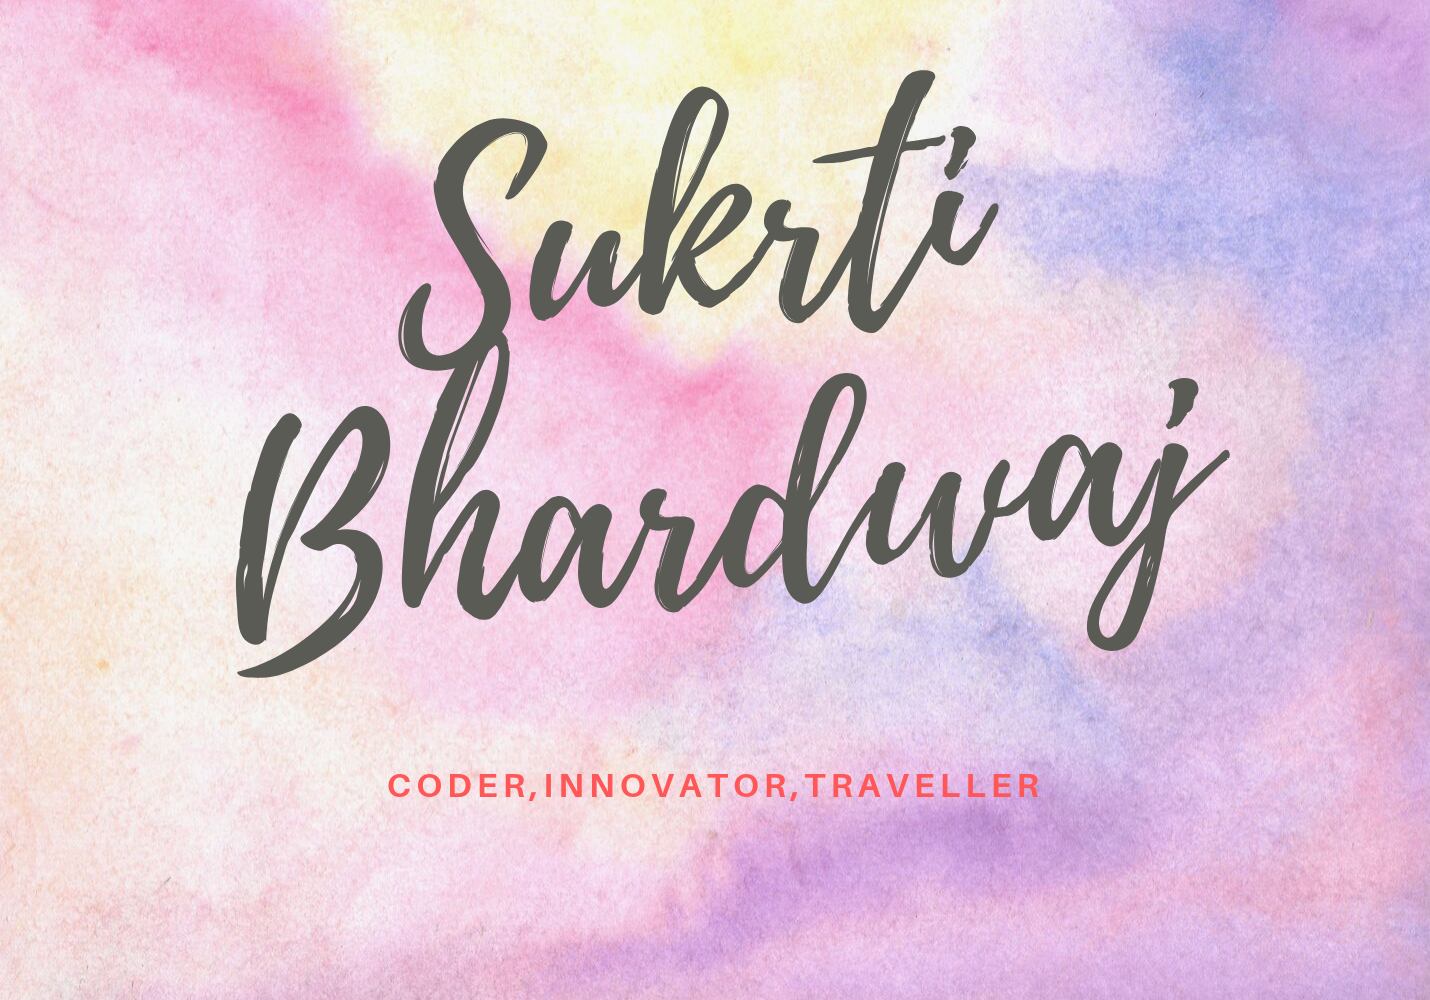
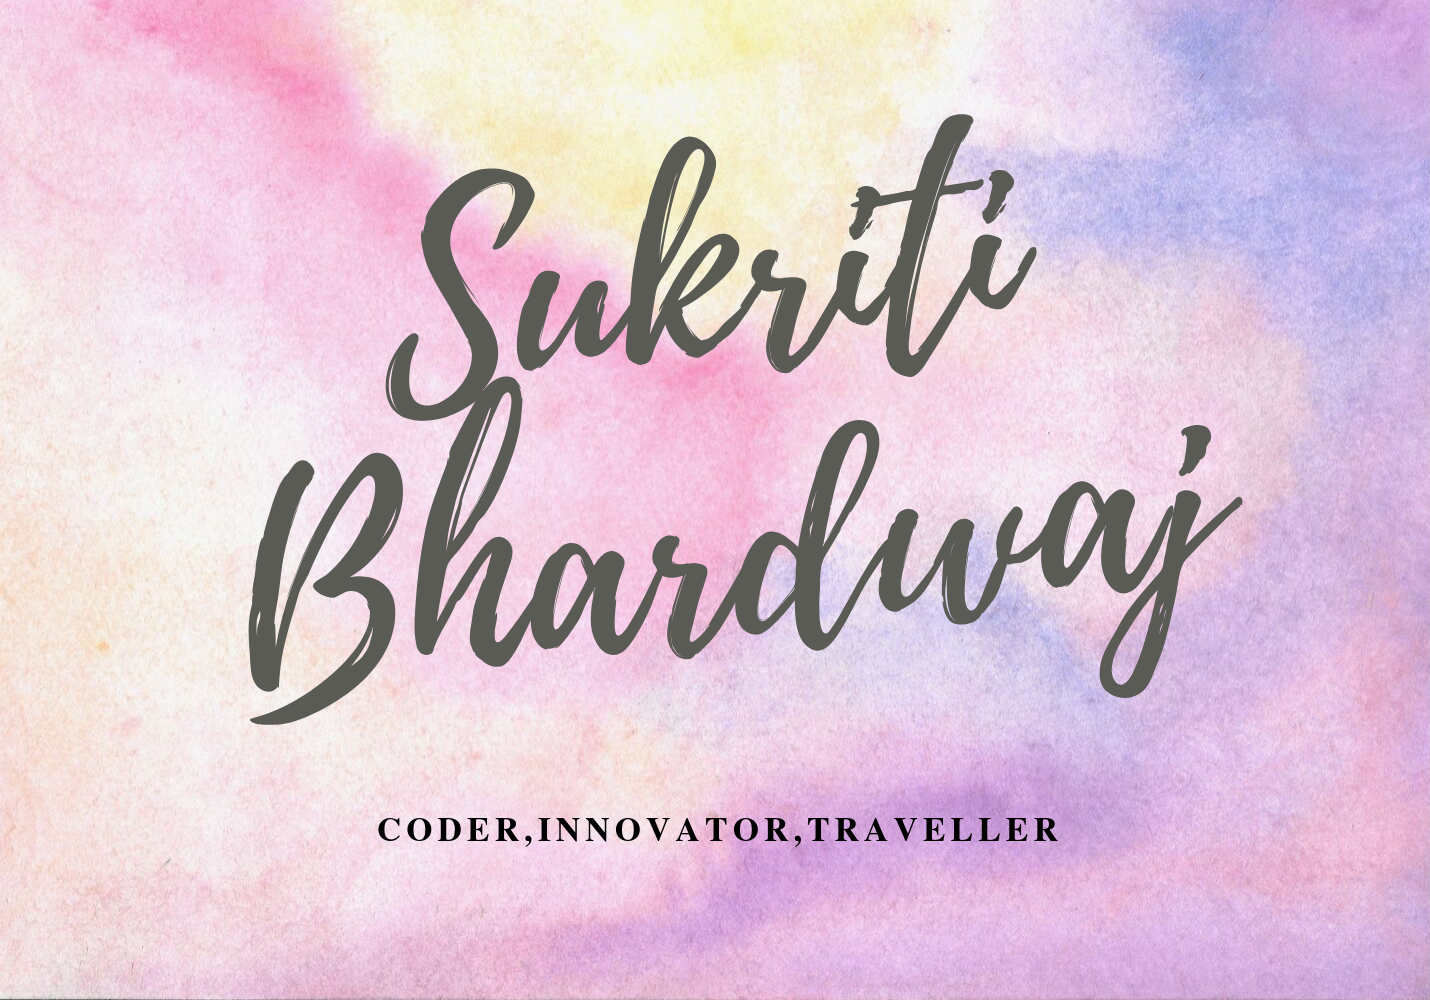
home page renovated
made the home page slightly less revolting to look at. seriously it is so disgusting I think my stomach turned to dust.

diff --git a/index.html b/index.html
@@ -6,7 +6,7 @@
 		<link rel="stylesheet" href="style.css">
 	</head>
 	<body>
-		<nav>
+		<nav class="sticky">
 			<div class = "navBar">
 				<h4>Home</h4>
 			</div>
@@ -16,26 +16,19 @@
 				<li><a href="portfolio.html">Portfolio</a></li>
 				<li><a href="contactMe.html">Contact Me</a></li>
 			</ul>
-			<div class="divi">
-				<div class="line1"></div>
-				<div class="line2"></div>
-				<div class="line3"></div>
-			</div>
 		</nav>
-		<div class="space"></div>
-		<div id="library_tracks">
-	    <div id="content"></div>
-		</div>
-		<br>
-		<h1 align="center">Welcome To The Cool Zone!</h1>
-		<div class="row"></div>
-		<div class="column">
-		  <p class="intro">Hey! I am Sukriti Bhardwaj. I am a Computer Science currently in my Sophmore year at Georgia Institute Of Technology. As you could have guessed from my major, I love coding and I am particularly interested in web development, app development and backend. I also love travelling, cooking, reading and playing chess.</p>
-		  <br>
-		</div>
-		<div class="column">
-			<img src="suki.jpg" alt="suk" class="center">
-		</div>
+        <div id="content"></div>
+		<h1 align="center">~*Hi, I'm Sukriti :)*~</h1>
+		<div class="row">
+            <div class="column textcolumn">
+                <span class="line"></span>
+                <p class="intro">I am a Computer Science currently in my Sophmore year at Georgia Institute Of Technology. As you could have guessed from my major, I love coding and I am particularly interested in web development, app development and backend. I also love travelling, cooking, reading and playing chess.</p>
+                <span class="line"></span>
+            </div>
+            <div class="column">
+                <img src="suki.jpg" alt="suk" class="center">
+            </div>
+        </div>
 		<br>
 
 		

diff --git a/style.css b/style.css
@@ -2,7 +2,17 @@
 	margin: 0px;
 	padding: 0px;
 	box-sizing: border-box;
-	color: white;
+}
+.intro{
+    color: white
+}
+h1 {
+    font-size: 50px;
+    letter-spacing: 15px;
+    font-variant: small-caps;
+    font-weight: 100;
+    margin: 40px 0 40px;
+    color: white
 }
 nav{
 	display: flex;
@@ -10,10 +20,14 @@ nav{
 	align-items: center;
 	min-height: 8vh;
 	background-color: rgb(170,170,170);
-
+}
+.sticky {
+    position: sticky;
+    top: 0;
+    width: 100%;
 }
 .navBar{
-	color: rgb(100,100,100);
+	color: black;
 	text-transform: uppercase;
 	letter-spacing: 5px;
 	font-size: 20px;
@@ -32,7 +46,7 @@ nav{
 	text-decoration: none;
 	letter-spacing: 3px;
 	font-weight: bold;
-	font-size: 14px;
+	font-size: 20px;
 }
 .divi div{
 	width: 25px;
@@ -52,10 +66,10 @@ body{
 	margin: 100px;
 }
 #content {
-    height:950px;
+    height:1000px;
     background-image: url('cover.png');
     background-attachment: fixed;
-  	background-position: center;
+  	background-position: top;
   	background-repeat: no-repeat;
   	background-size: cover;
   }
@@ -97,7 +111,12 @@ body{
   width: 50%;
   padding: 40px;
 }
-
+.textcolumn {
+    margin: 300px 0 0;
+}
+.row {
+    background-color: darkslategray;
+}
 .row:after {
   content: "";
   display: table;
@@ -105,9 +124,21 @@ body{
 }
 .center{
 	display: block;
-	margin-right: 0px;
-	width: 1;
+	margin-left: auto;
+    margin-right: auto;
 }
 .intro{
-	font-size: 30px;
+	font-size: 25px;
+    text-align: center;
+    margin: 20px 0 20px;
+}
+
+.line {
+    display: block;
+    height: 2px;
+    margin: 6px auto 6px;
+    padding: 0px;
+    position: relative;
+    width: 25%;
+    background: white;
 }

diff --git a/aboutMe.html b/aboutMe.html
@@ -8,22 +8,22 @@
 
 	</head>
 	<body>
-		<nav>
-			<div class = "navBar">
-			<h4>About Me</h4>
-		</div>
-		<ul class="navi-Links">
-			<li><a href="#"><a href="index.html">Home</a></a></li>
-			<li><a href="#"><a href="aboutMe.html">About Me</a></a></li>
-			<li><a href="#"><a href="portfolio.html">Portfolio</a></a></li>
-			<li><a href="#"><a href="contactMe.html">Contact Me</a></a></li>
-		</ul>
-		<div class="divi">
-			<div class="line1"></div>
-			<div class="line2"></div>
-			<div class="line3"></div>
-		</div>
-	</nav>
+		<nav class="sticky">
+            <div class = "navBar">
+                <h4>About Me</h4>
+            </div>
+            <ul class="navi-Links">
+                <li><a href="#"><a href="index.html">Home</a></a></li>
+                <li><a href="#"><a href="aboutMe.html">About Me</a></a></li>
+                <li><a href="#"><a href="portfolio.html">Portfolio</a></a></li>
+                <li><a href="#"><a href="contactMe.html">Contact Me</a></a></li>
+            </ul>
+            <div class="divi">
+                <div class="line1"></div>
+                <div class="line2"></div>
+                <div class="line3"></div>
+            </div>
+	   </nav>
 	<br>
 	<h1>My hobbies and interests</h1>
 	<p>I think I am a person with varying interests. I have tried out several extra-curricular activities throughout my life - swimming, Kathak (a traditional indian dance form ), drawing, painting, vocal music, soccer, basketball, public speaking and karate. It's almost like you name something and I have done it.  </p>
